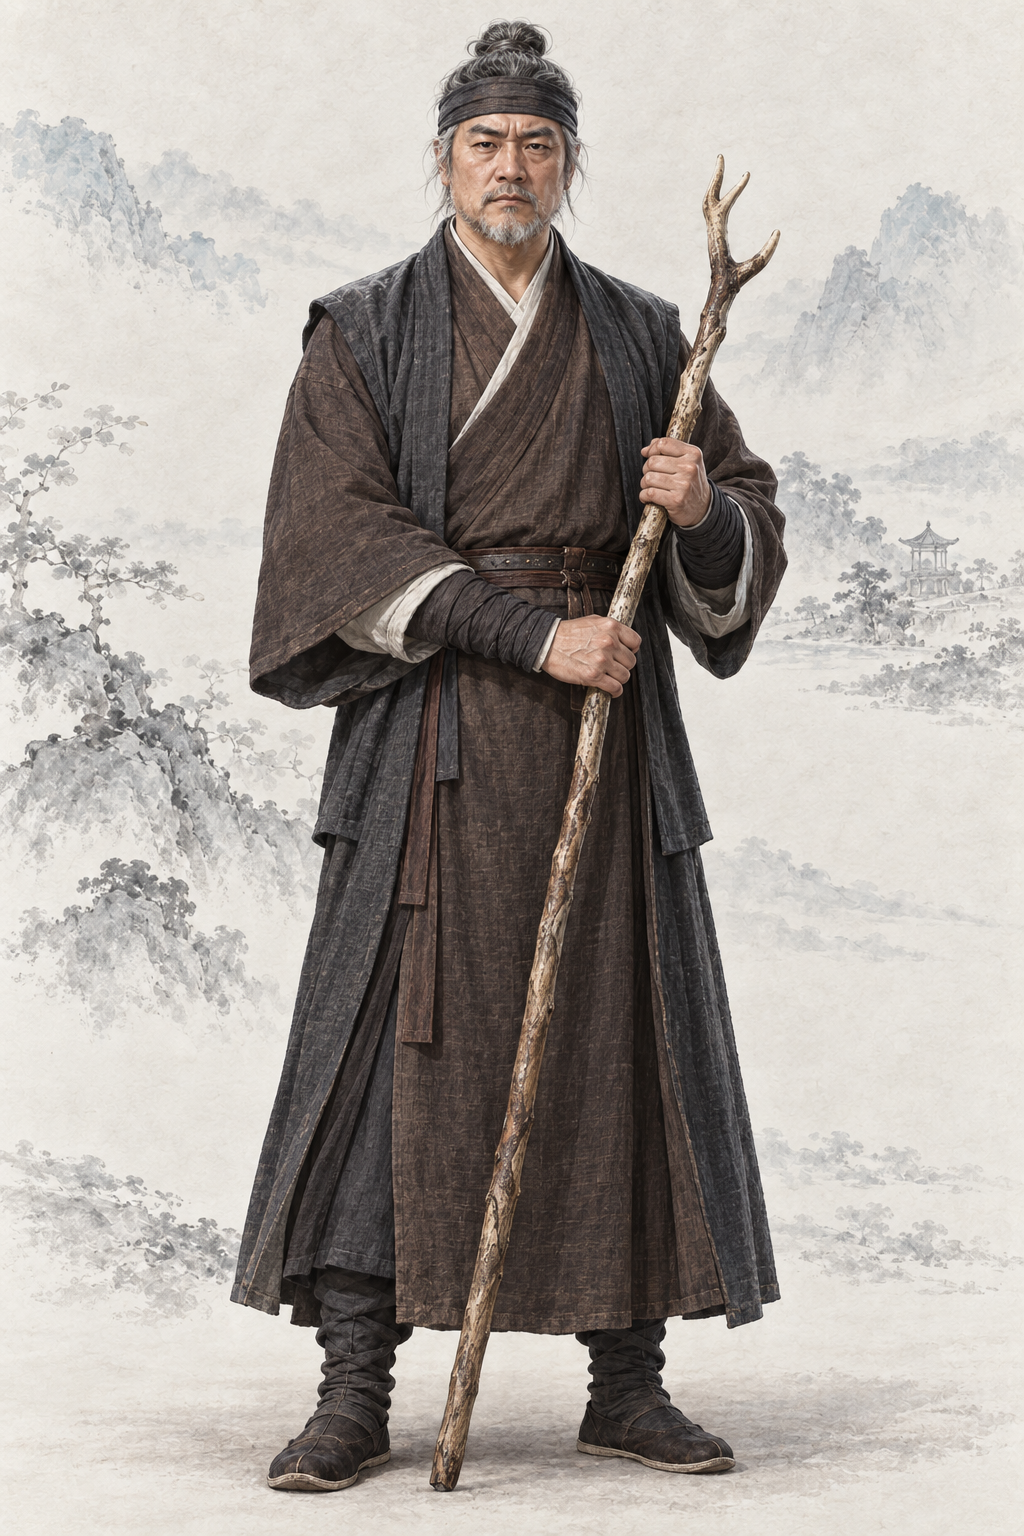
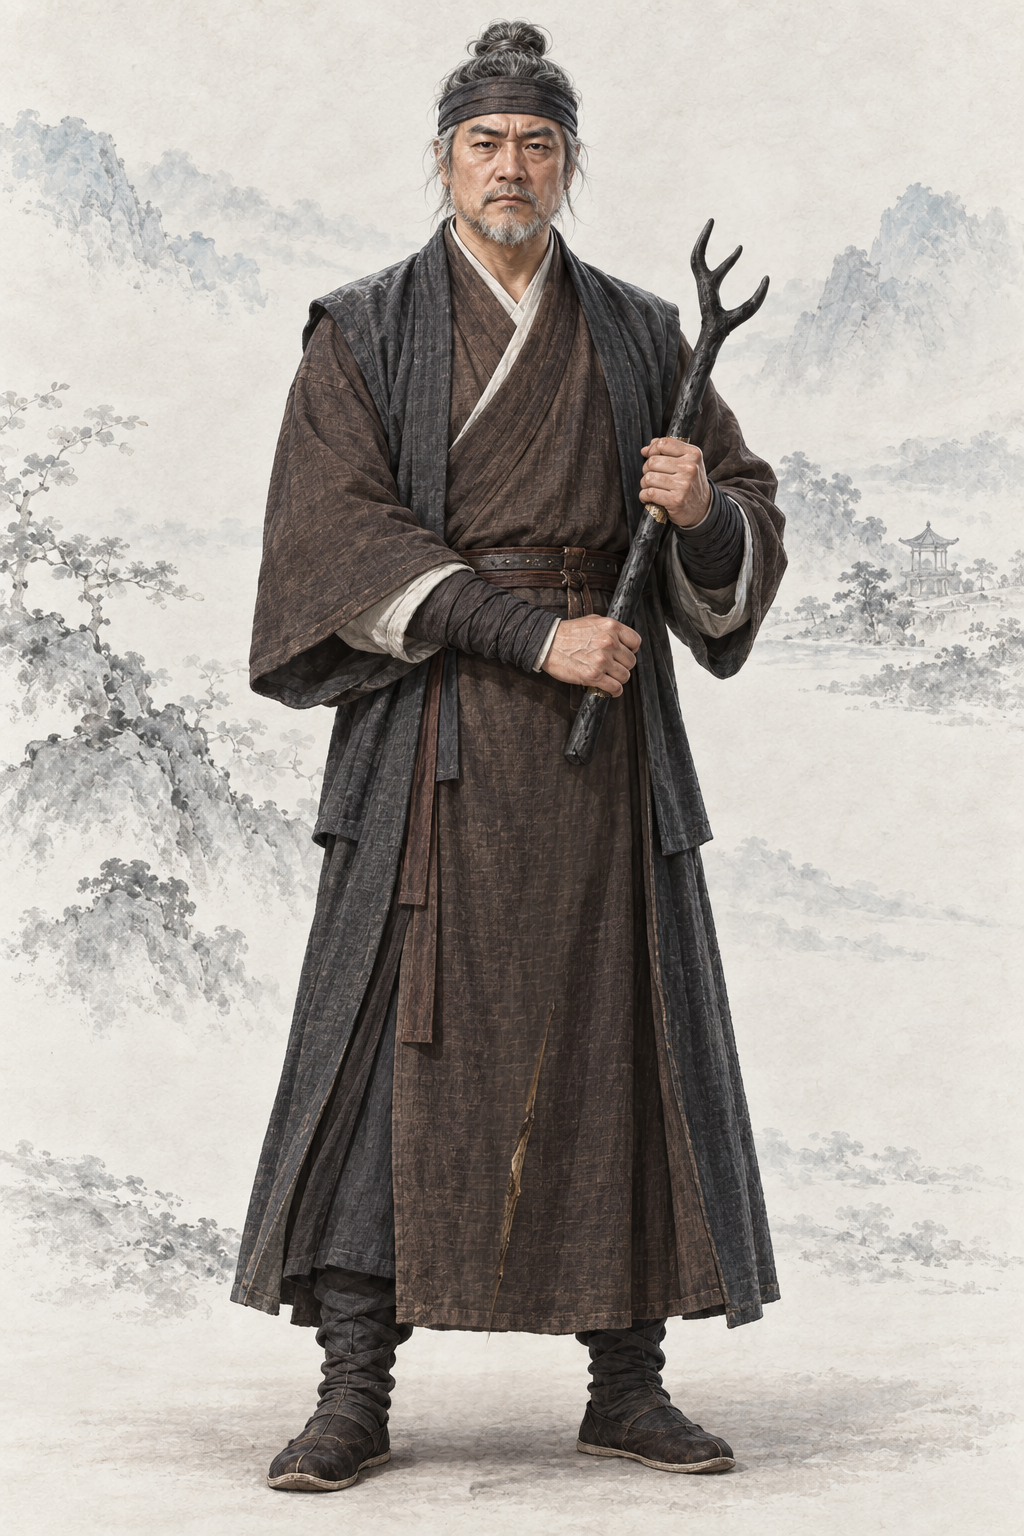
assets: AR-82 原著核对返修 鹿杖客鹿角杖改通体黝黑短杖
原著摘句已同步提示词；已打开验图；蒙版外0像素变化。

Executed-By: Codex gpt-6.1-sol（AR-82）

Changed region(s): [[0.4062, 0.4375, 0.5938, 0.9688], [0.6562, 0.0938, 0.75, 0.2812], [0.5938, 0.3125, 0.6562, 0.4062]]

diff --git a/assets/default/prompts/characters/ch04-yitian/npc_luzhangke.md b/assets/default/prompts/characters/ch04-yitian/npc_luzhangke.md
@@ -73,3 +73,8 @@ FINAL POSE CHECK: FRONT-FACING 鹿杖客. Forehead–nose–chin centreline VERT
 - 采用作者授权宽松自查；偏差如实记录，candidate不代表approved。
 - 源PNG通常为1024×1536 RGB；其他原生2:3尺寸如实登记，原字节保存，不裁切、重编码、放大或去除溯源。
 - 完整请求、实际参考哈希及旧版本备份见 `.agents/coord/portrait-generation/identity-20261001/por_npc_luzhangke__ch04_elder_base.prepared.json`。
+
+## 原著依据
+
+- 《倚天屠龙记》二十六 俊貌玉面甘毁伤：“一根短杖，杖头分叉，作鹿角之形，通体黝黑”；https://www.xuges.com/wuxia/jinyong/yttlj/191.htm
+- AR-82 返修约束（本节优先于历史提示词）：只把近人高黄褐木色杖改为通体黝黑短杖，顶部分叉作鹿角形，短杖长度约本人前臂到手臂长，仍用原双手握持，杖的下端停在腰腿上部，去掉原伸到地面的长杆并补回背景。不要鹿头，不强定木或铁的材质。人脸、手指和衣服其余部分不动。
